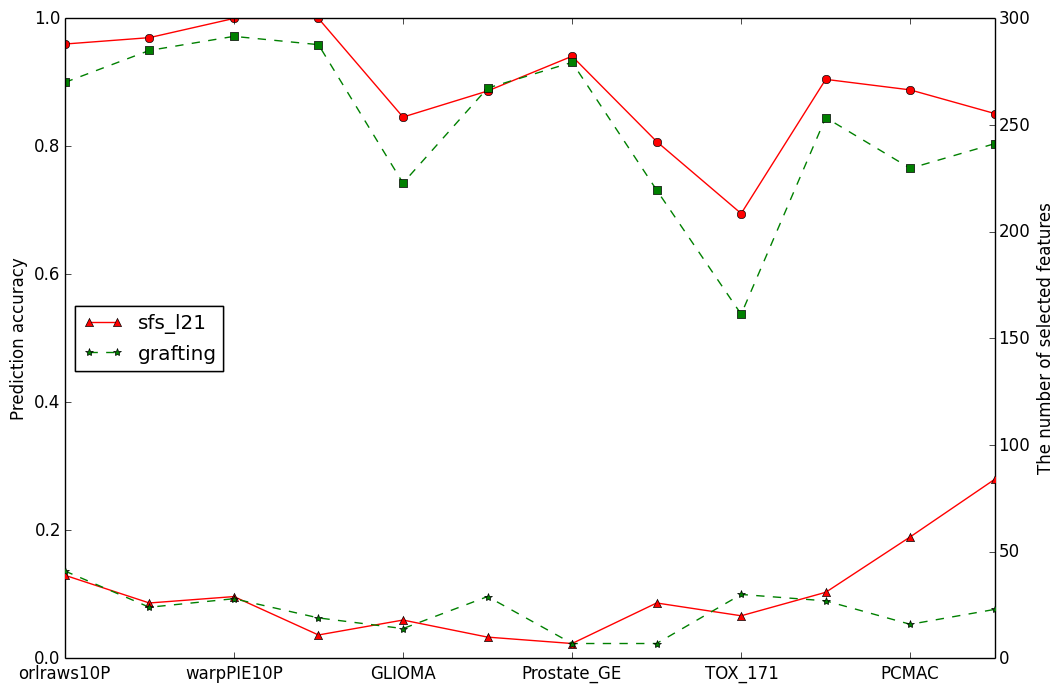
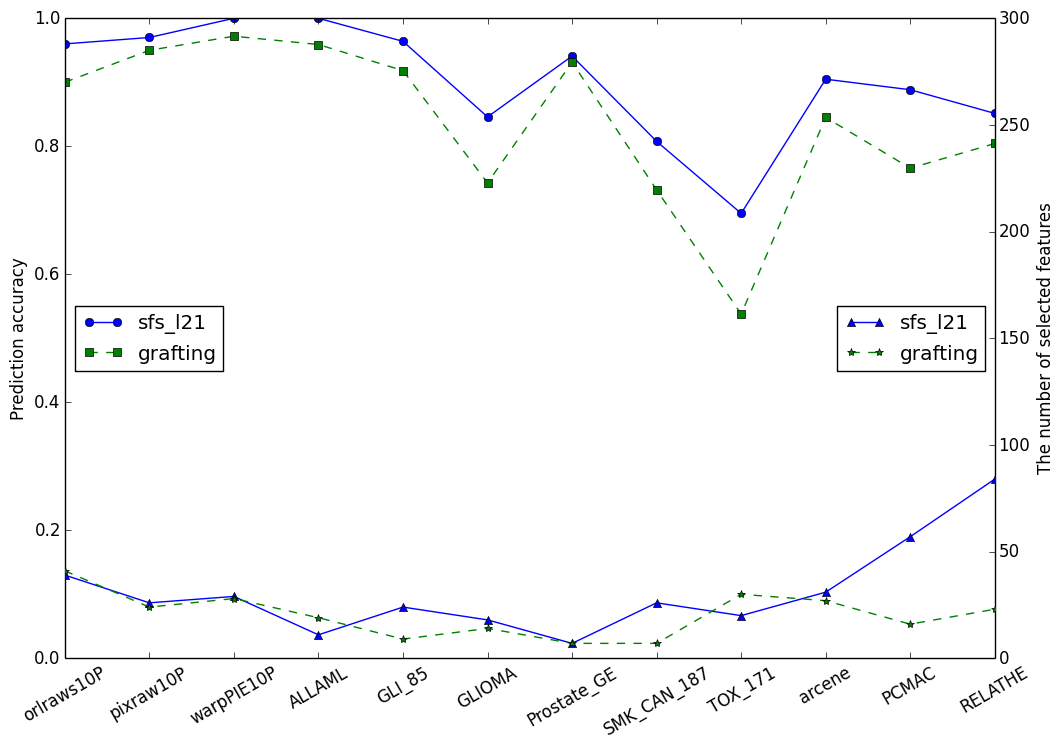
count all attributes to all_attribute.csv

diff --git a/test_fmin/draw.py b/test_fmin/draw.py
@@ -3,68 +3,89 @@ import pandas as pd
 import matplotlib.pyplot as plt
 import mpl_toolkits.mplot3d
 
-#X = np.matrix(np.random.random((3,10)))
-X = np.matrix(
-        [[0.61856832, 0.22510381, 0.57838847, 0.19514078, 0.12633871, 0.61386397, 0.16392846, 0.26312341, 0.78464014, 0.38205329],
-         [0.3771132 , 0.42317827, 0.88295305, 0.44258504, 0.7210982 , 0.71181544, 0.62802295, 0.73161301, 0.64498065, 0.24541482],
-         [0.23418782, 0.03861684, 0.4098603 , 0.62496842, 0.66906535, 0.60161075, 0.76008686, 0.24457919, 0.65445907, 0.7220447]])
+def test1():
+    #X = np.matrix(np.random.random((3,10)))
+    X = np.matrix(
+            [[0.61856832, 0.22510381, 0.57838847, 0.19514078, 0.12633871, 0.61386397, 0.16392846, 0.26312341, 0.78464014, 0.38205329],
+            [0.3771132 , 0.42317827, 0.88295305, 0.44258504, 0.7210982 , 0.71181544, 0.62802295, 0.73161301, 0.64498065, 0.24541482],
+            [0.23418782, 0.03861684, 0.4098603 , 0.62496842, 0.66906535, 0.60161075, 0.76008686, 0.24457919, 0.65445907, 0.7220447]])
 
-def normalize(x):
-    return (x-x.std())/x.mean()
+    def normalize(x):
+        return (x-x.std())/x.mean()
 
-for j in range(X.shape[1]):
-    X[:, j] = normalize(X[:, j])
-#Y = np.matrix([1,-1,1]).T
-Y = np.matrix([[1,0],[0,1],[1,0]])
-threshold = 0.5
+    for j in range(X.shape[1]):
+        X[:, j] = normalize(X[:, j])
+    #Y = np.matrix([1,-1,1]).T
+    Y = np.matrix([[1,0],[0,1],[1,0]])
+    threshold = 0.5
 
-n, d = X.shape
-n, c = Y.shape
-W = np.matrix(np.ones((d-1, c)))
+    n, d = X.shape
+    n, c = Y.shape
+    W = np.matrix(np.ones((d-1, c)))
 
-def Loss(W, X, Y):
-    W = np.matrix(W).reshape((X.shape[1], Y.shape[1]))
-    mat = np.dot(X, W) - Y
-    return np.linalg.norm(mat, ord='fro')
+    def Loss(W, X, Y):
+        W = np.matrix(W).reshape((X.shape[1], Y.shape[1]))
+        mat = np.dot(X, W) - Y
+        return np.linalg.norm(mat, ord='fro')
 
-def Regularized_term(W):
-    W = np.matrix(W).reshape((X.shape[1], Y.shape[1]))
-    arr = np.linalg.norm(W, ord=2, axis=1)
-    return np.linalg.norm(arr, ord=1, axis=0)
+    def Regularized_term(W):
+        W = np.matrix(W).reshape((X.shape[1], Y.shape[1]))
+        arr = np.linalg.norm(W, ord=2, axis=1)
+        return np.linalg.norm(arr, ord=1, axis=0)
 
-def J(W, X, Y, threshold):
-    res = Loss(W, X, Y)
-    res += threshold*Regularized_term(W)
-    return res
+    def J(W, X, Y, threshold):
+        res = Loss(W, X, Y)
+        res += threshold*Regularized_term(W)
+        return res
 
-def F_J(w, W, X, Y, threshold):
-    W=np.vstack((W, w))
-    return J(W, X, Y, threshold)
-def F_Loss(w, W, X, Y):
-    W=np.vstack((W, w))
-    return Loss(W, X, Y)
+    def F_J(w, W, X, Y, threshold):
+        W=np.vstack((W, w))
+        return J(W, X, Y, threshold)
+    def F_Loss(w, W, X, Y):
+        W=np.vstack((W, w))
+        return Loss(W, X, Y)
 
-r=10
-x, y=np.mgrid[-r:r:50j, -r:r:50j]
-z_J = np.ones_like(x)
-for i in range(x.shape[0]):
-    for j in range(x.shape[1]):
-        z_J[i, j] = F_J([x[i, j], y[i, j]], W, X, Y, threshold)
+    r=10
+    x, y=np.mgrid[-r:r:50j, -r:r:50j]
+    z_J = np.ones_like(x)
+    for i in range(x.shape[0]):
+        for j in range(x.shape[1]):
+            z_J[i, j] = F_J([x[i, j], y[i, j]], W, X, Y, threshold)
 
-z_l21 = np.sqrt(x**2+y**2)
+    z_l21 = np.sqrt(x**2+y**2)
 
-z_Loss = np.ones_like(x)
-for i in range(x.shape[0]):
-    for j in range(x.shape[1]):
-        z_Loss[i, j] = F_Loss([x[i, j], y[i, j]], W, X, Y)
+    z_Loss = np.ones_like(x)
+    for i in range(x.shape[0]):
+        for j in range(x.shape[1]):
+            z_Loss[i, j] = F_Loss([x[i, j], y[i, j]], W, X, Y)
 
-ax = plt.subplot(111,projection='3d')  
-# ax.plot_surface(x,y,z_J,rstride=2,cstride=1,cmap=plt.cm.coolwarm,alpha=0.8) 
-# ax.plot_surface(x,y,z_l21,rstride=2,cstride=1,cmap=plt.cm.coolwarm,alpha=0.8) 
-ax.plot_surface(x,y,z_Loss,rstride=2,cstride=1,cmap=plt.cm.coolwarm,alpha=0.8) 
+    ax = plt.subplot(111,projection='3d')  
+    # ax.plot_surface(x,y,z_J,rstride=2,cstride=1,cmap=plt.cm.coolwarm,alpha=0.8) 
+    # ax.plot_surface(x,y,z_l21,rstride=2,cstride=1,cmap=plt.cm.coolwarm,alpha=0.8) 
+    ax.plot_surface(x,y,z_Loss,rstride=2,cstride=1,cmap=plt.cm.coolwarm,alpha=0.8) 
 
-ax.set_xlabel('x')
-ax.set_ylabel('y')
-ax.set_zlabel('z')
+    ax.set_xlabel('x')
+    ax.set_ylabel('y')
+    ax.set_zlabel('z')
 
-plt.show()
+    plt.show()
+
+def test2():
+    x = np.random.uniform(-1, 1, 4)
+    y = np.random.uniform(-1, 1, 4)
+
+    p1, = plt.plot([1,2,3])
+    p2, = plt.plot([3,2,1])
+    l1 = plt.legend([p2, p1], ["line 2", "line 1"], loc="upper left")
+
+    p3 = plt.scatter(x[0:2], y[0:2], marker='D', color='r')
+    p4 = plt.scatter(x[2:], y[2:], marker='D', color='g')
+
+
+    plt.legend([p3, p4], ["label", "label1"], loc="lower right", scatterpoints=1)
+    plt.gca().add_artist(l1)
+
+    plt.show()
+
+if __name__ == '__main__':
+    test2()

diff --git a/datas/draw.py b/datas/draw.py
@@ -2,7 +2,7 @@ import pandas as pd
 import matplotlib.pyplot as plt
 
 
-def get_dataset_name():
+def get_cls_nfs():
     algs = "sfs_l21 grafting Alpha_investing osfs saola".split()
     clses, nfses = None, None
     with open("selected_datasets.txt", 'r') as f:
@@ -25,11 +25,15 @@ def draw(cls, nfs, fn_png):
     fig, axes = plt.subplots(2, 1)
     # style='o- ^-- s-. +-- x-.'.split(' ')
     style = 'o- ^-- s-. p: D:'.split(' ')
-    cls.plot(ax=axes[0], style=style, ylim=(0.0, 1.0), rot=45)
-    nfs.plot(ax=axes[1], style=style, ylim=(0, 300), rot=45)
+    cls.plot(ax=axes[0], style=style, ylim=(0.0, 1.0), rot=30)
+    nfs.plot(ax=axes[1], style=style, ylim=(0, 300), rot=30)
 
     axes[0].set_ylabel('Prediction accuracy')
+    axes[0].set_xticks(range(12))
+    axes[0].set_xticklabels(cls.index)
     axes[1].set_ylabel('The number of selected features')
+    axes[1].set_xticks(range(12))
+    axes[1].set_xticklabels(nfs.index)
 
     plt.xlabel("datasets")
     # plt.show()
@@ -41,17 +45,20 @@ def draw(cls, nfs, fn_png):
 def draw_sfs_l21_vs_other(cls, nfs):
     fig = plt.figure()
     ax1 = fig.add_subplot(111)
+    ax1.set_xticks(range(len(cls.index)))
+    ax1.set_xticklabels(cls.index)
     ax2 = ax1.twinx()
     ax1.set_ylabel('Prediction accuracy')
     ax2.set_ylabel('The number of selected features')
-    style1 = 'ro- gs--'.split(' ')
-    style2 = 'r^- g*--'.split(' ')
-    cls.plot(ax=ax1, style=style1, ylim=(0.0, 1.0))
-    nfs.plot(ax=ax2, style=style2, ylim=(0, 300))
+    style1 = 'bo- gs--'.split()
+    style2 = 'b^- g*--'.split()
+    cls.plot(ax=ax1, style=style1, ylim=(0.0, 1.0), rot=30)
+    nfs.plot(ax=ax2, style=style2, ylim=(0, 300)) #, kind='bar')
     plt.xlabel("datasets")
     fig.set_size_inches(12, 8)
     ax1.legend(loc="center left")
-    ax2.legend(loc="center left")
+    ax2.legend(loc="center right")
+    # plt.gca().add_artist(l1)
     alg1, alg2 = cls.columns
     fig.savefig("all_%s_vs_%s.png" % (alg1, alg2), bbox_inches='tight')
     plt.close()
@@ -67,9 +74,9 @@ def draw_vs_others(cls, nfs):
 
 
 if __name__ == '__main__':
-    clses, nfses = get_dataset_name()
-    # clses.to_csv("all_cls.csv")
-    # nfses.to_csv("all_nfs.csv")
+    clses, nfses = get_cls_nfs()
+    clses.to_csv("all_cls.csv")
+    nfses.to_csv("all_nfs.csv")
     print clses
     print nfses
     # draw_vs_others(clses, nfses)

diff --git a/datas/count_attribute.py b/datas/count_attribute.py
@@ -1,0 +1,28 @@
+# count all dataset attribute(samples, features, labels) to all_attribute.csv
+
+import pandas as pd
+
+
+def get_attributes():
+    fname = "selected_datasets.txt"
+    attributes = None
+    with open(fname, 'r') as f:
+        for line in f:
+            if line.startswith("#"):
+                continue
+            dstype, dsname = line.split(":")
+            dstype = dstype.strip()
+            dsname = dsname.split()
+            path = "%s/all_result/all_attribute.csv"%dstype
+            df = pd.read_csv(path, index_col=0).ix[dsname]
+            attributes = pd.concat((attributes, df))
+    return attributes
+
+
+def main():
+    attributes = get_attributes()
+    attributes.to_csv("all_attribute.csv")
+
+
+if __name__ == "__main__":
+    main()
